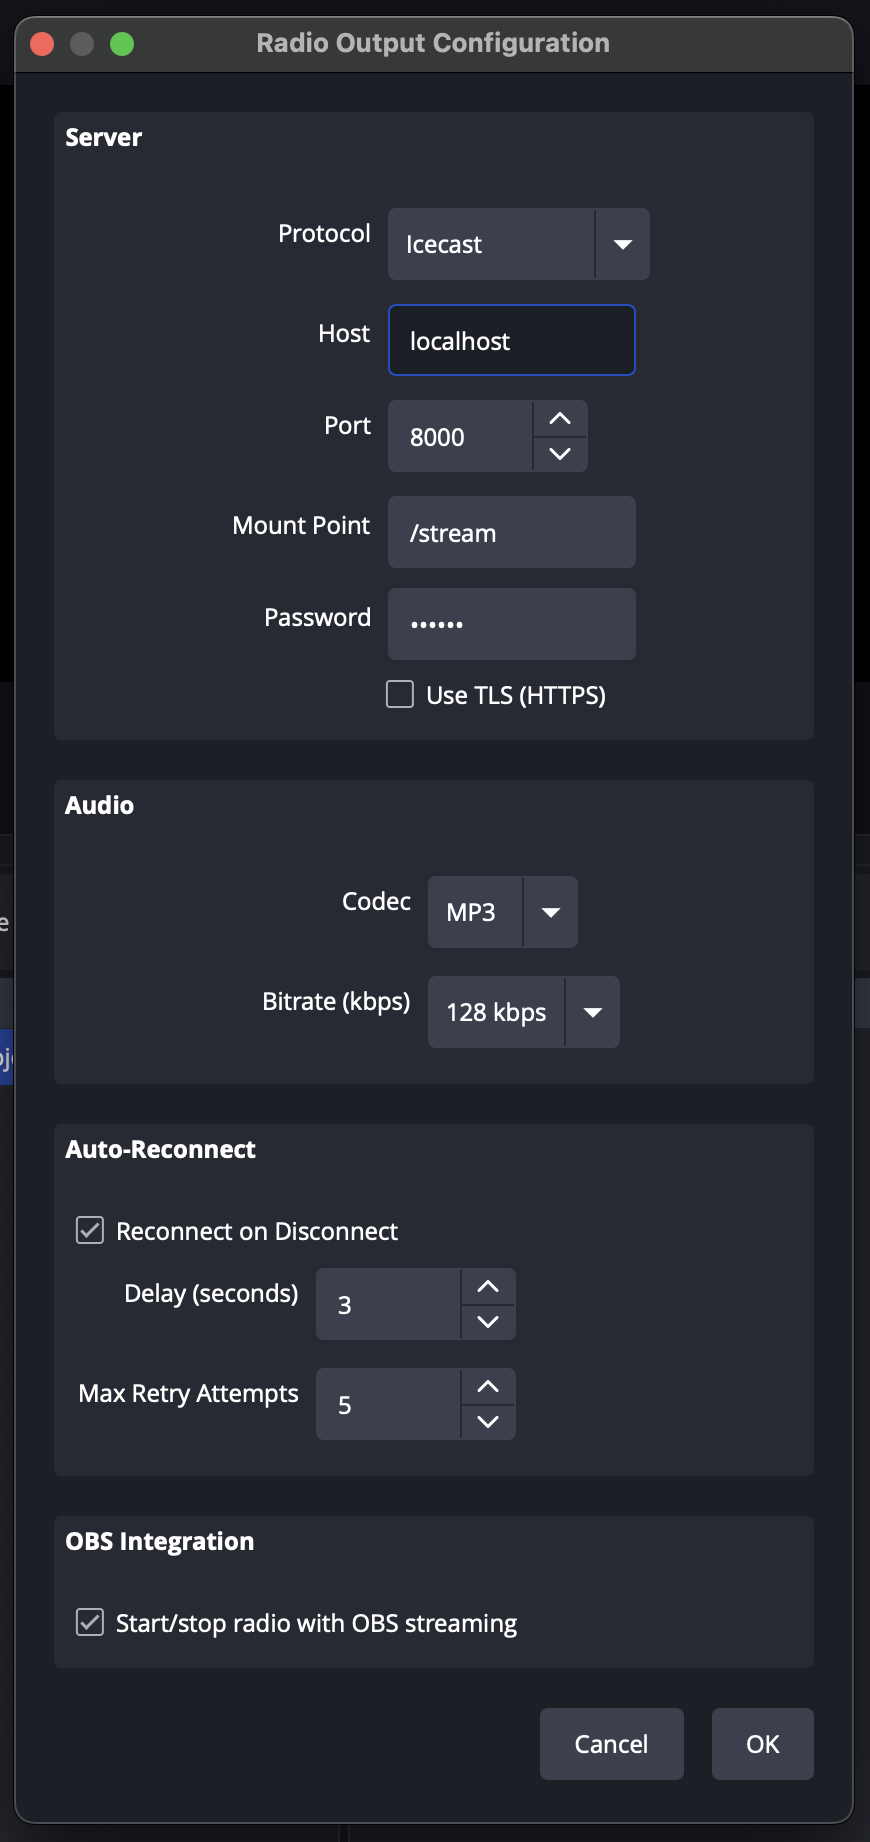
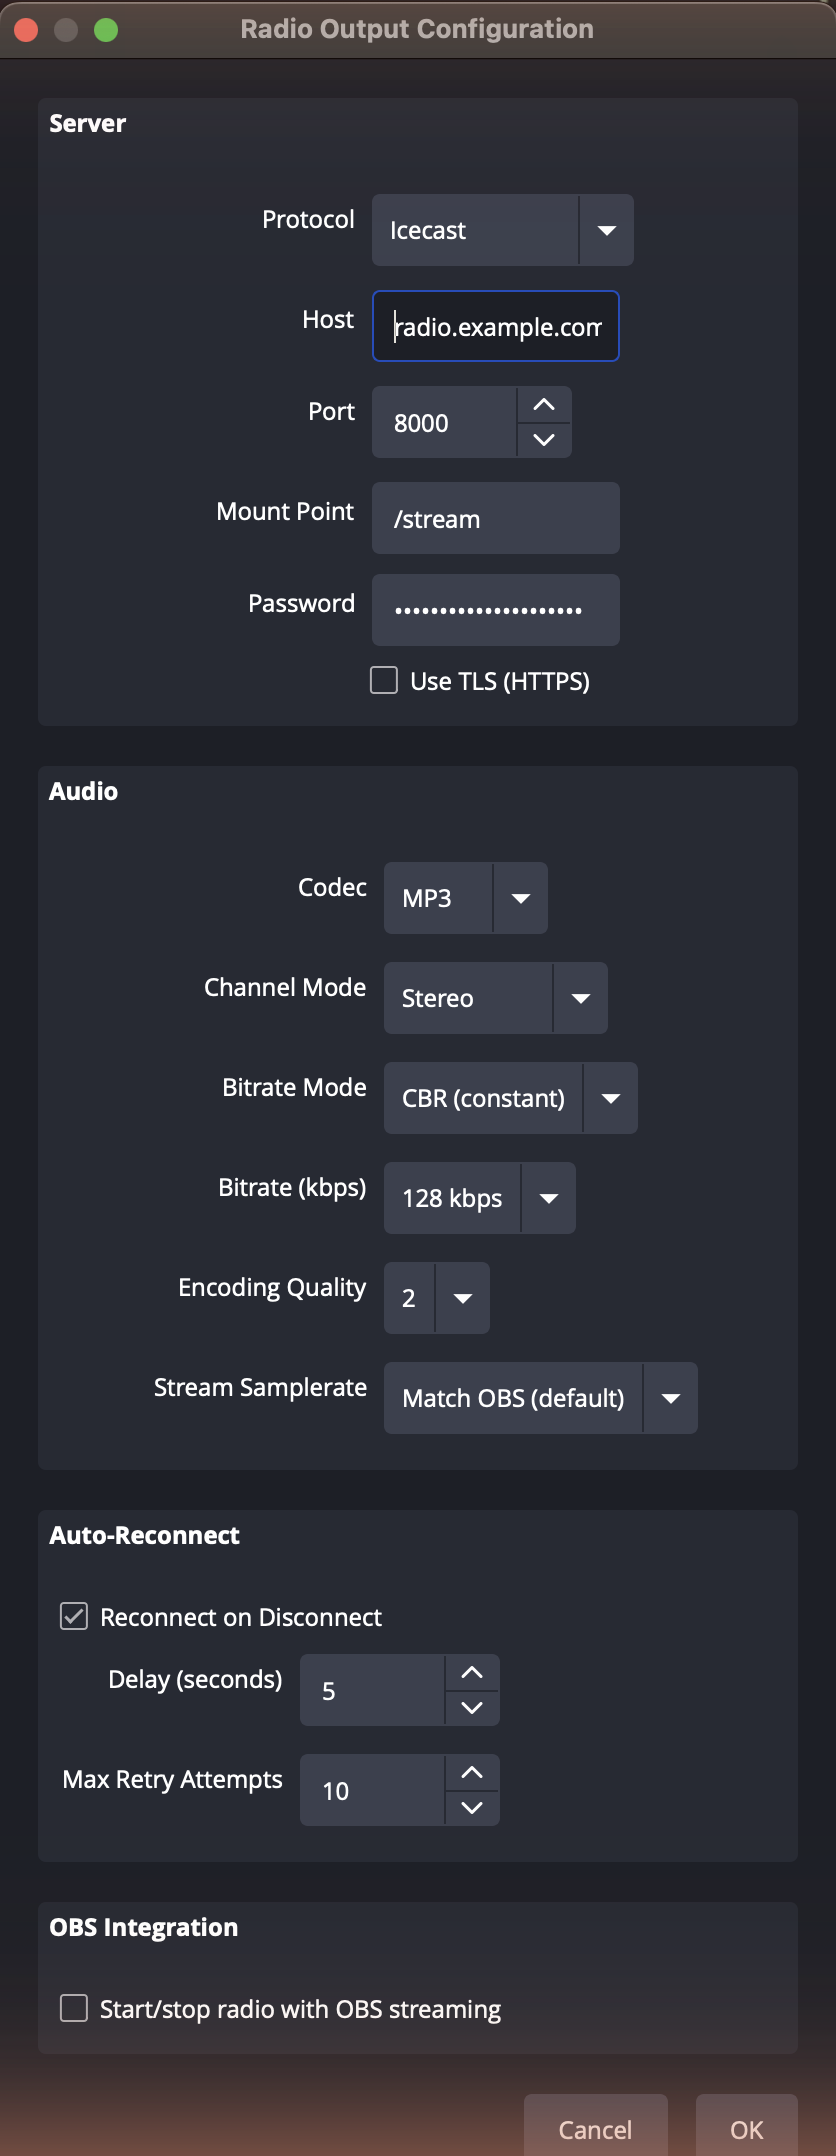
docs: refresh screenshots for the Phase 2 UI and fix README guide drift

diff --git a/README.md b/README.md
@@ -23,7 +23,7 @@ See the **[User Guide](docs/USER-GUIDE.md)** for a step-by-step setup walkthroug
 ## Screenshots
 
 <p align="center">
-  <img src="docs/images/config-dialog.png" width="600" alt="Tools → Radio Output… configuration dialog showing server, codec, and bitrate settings">
+  <img src="docs/images/config-dialog.png" width="500" alt="Tools → Radio Output… configuration dialog showing server, audio (codec, channel mode, bitrate mode, quality, samplerate), auto-reconnect, and OBS integration settings">
   <br>
   <em>Configuration dialog — <strong>Tools → Radio Output…</strong></em>
 </p>
@@ -35,9 +35,9 @@ See the **[User Guide](docs/USER-GUIDE.md)** for a step-by-step setup walkthroug
 </p>
 
 <p align="center">
-  <img src="docs/images/status-states.png" width="800" alt="Dock connection states: Disconnected, Live, Reconnecting, Error">
+  <img src="docs/images/status-states.png" width="800" alt="Dock connection states: Disconnected, Connecting, Live, Reconnecting, Error">
   <br>
-  <em>Color-coded connection states: Disconnected, Live, Reconnecting…, Error</em>
+  <em>Color-coded connection states: Disconnected, Connecting…, Live, Reconnecting…, Error</em>
 </p>
 
 ## Installation
@@ -99,7 +99,7 @@ xcodebuild -project build_macos/obs-radio-output.xcodeproj \
 cmake --install build_macos --config RelWithDebInfo \
       --prefix release/RelWithDebInfo
 
-cp -r release/RelWithDebInfo/obs-radio-output \
+cp -r release/RelWithDebInfo/obs-radio-output.plugin \
       ~/Library/Application\ Support/obs-studio/plugins/
 ```
 
@@ -155,16 +155,18 @@ cmake --install build_x64 --config RelWithDebInfo `
 ```
 
 > **Note:** Streaming to Icecast/SHOUTcast is not yet functional on Windows. The plugin will
-> load in OBS but the streaming output requires MSVC-compatible libshout binaries (tracked as
-> a known issue — contributions welcome).
+> load in OBS but the streaming output requires MSVC-compatible libshout binaries — tracked as
+> [#37](https://github.com/tech-noid-systems/obs-radio-output/issues/37), contributions welcome.
 
 ## Usage
 
 **One-time configuration:** **Tools → Radio Output…**. Enter your Icecast
-server hostname, port, mount point, and password. Pick codec (MP3 / Opus)
-and bitrate. Optionally enable "Start/stop radio with OBS streaming" if
-you want the radio to piggyback on OBS's main Start/Stop Streaming
-button. Click **OK** — settings persist across OBS restarts.
+server hostname, port, mount point, and password. Pick a codec (MP3 / Opus /
+Vorbis) and bitrate — MP3 also exposes channel mode, CBR/ABR/VBR, encoding
+quality, and a stream-samplerate selector for BUTT-parity control. Optionally
+enable "Start/stop radio with OBS streaming" if you want the radio to
+piggyback on OBS's main Start/Stop Streaming button. Click **OK** — settings
+persist across OBS restarts.
 
 **Running a broadcast:** open the **Radio Output** dock (**View → Docks
 → Radio Output**). The dock shows connection status and has **Start** /

diff --git a/docs/USER-GUIDE.md b/docs/USER-GUIDE.md
@@ -67,7 +67,14 @@ Open **Tools → Radio Output…**.
 | Field | What to enter |
 |-------|---------------|
 | **Codec** | **MP3** (universally compatible), **Opus** (efficient, modern players; requires OBS audio at 48 kHz), or **Vorbis** (Ogg). SHOUTcast v1 only carries MP3. |
-| **Bitrate** | 128 kbps is a good default for music. Higher = better quality + more bandwidth. |
+| **Channel Mode** | MP3 only. **Stereo**, **Joint Stereo**, or **Mono** (downmixes L+R). Opus and Vorbis always stream stereo. |
+| **Bitrate Mode** | MP3 only. **CBR** (constant — safest for radio servers), **ABR** (average), or **VBR** (quality-driven). Picking VBR swaps the Bitrate row for a **VBR Quality** selector plus optional **min/max bitrate** bounds. |
+| **Bitrate (kbps)** | 128 kbps is a good default for music. Higher = better quality + more bandwidth. (CBR/ABR modes.) |
+| **Encoding Quality** | MP3 only. LAME's quality dial, **0** (best, slowest) to **9** (fastest). The default **2** is right for almost everyone. |
+| **Stream Samplerate** | **Match OBS (default)** streams at whatever OBS runs at. Pick **44100** or **48000 Hz** to resample — useful when your station's pipeline expects one specific rate. MP3 only (built-in resampler); Opus is always 48 kHz and Vorbis follows the OBS rate. |
+
+If you're coming from BUTT: these map 1:1 to BUTT's *Streaming Codec Settings* —
+copy your values across and the stream comes out the same.
 
 **Auto-Reconnect** — if enabled, the plugin retries dropped connections. Set the **Delay**
 (seconds between attempts) and **Max Retry Attempts**. After the last attempt the output
@@ -92,7 +99,7 @@ your layout.
 Click **Start**. The status label walks through the connection states:
 
 <p align="center">
-  <img src="images/status-states.png" width="800" alt="Connection states: Disconnected (grey), Live (green), Reconnecting (orange), Error (red)">
+  <img src="images/status-states.png" width="800" alt="Connection states: Disconnected (grey), Connecting (amber), Live (green), Reconnecting (orange), Error (red)">
 </p>
 
 | Status | Color | Meaning |
